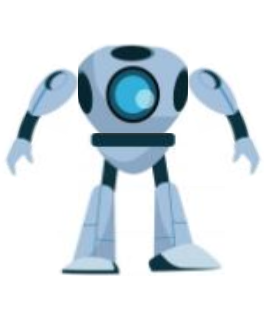
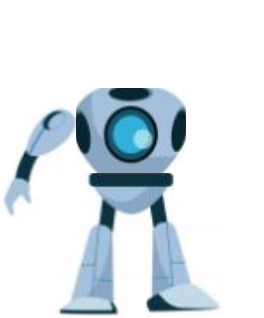
updating robot pics

diff --git a/Hangman.py b/Hangman.py
@@ -1,13 +1,11 @@
-# TODO:
-    # you win and you lose messages
-    # find dictionary api for wordbank # use google fonts - it's an API?
-    # get better font and see if I can round button edges    
+# TODO:        
     # fix robot images by starting with a completed robot with the size I want, then remove each part and save    
     # Make letters "pressable" using keyboard
     # add a starting screen that says "Enter the destruct sequence before the robot destroys the world!"    
     # learn how pygame works with base Python under the hood
 # FEATURES
     # add a timer
+    # find dictionary api for wordbank # use google fonts - it's an API?
     # have the timer go faster or slower based on successful/incorrect guesses
     # have more difficult levels with shorter timers
 
@@ -126,9 +124,9 @@ def draw_stuff(WIN, COMPUTER, RH, RLA, RRA, RB, RL, loseCounter, buttonList, cod
     elif loseCounter == 2:
         WIN.blit(RB, (175, 25))
     elif loseCounter == 3:
-        WIN.blit(RRA, (175, 25))
-    elif loseCounter == 4:
         WIN.blit(RLA, (175, 25))
+    elif loseCounter == 4:
+        WIN.blit(RRA, (175, 25))
     elif loseCounter == 5:
         WIN.blit(RH, (175, 25))
 
